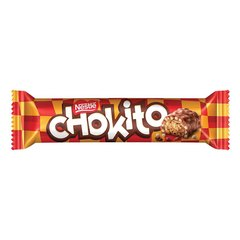
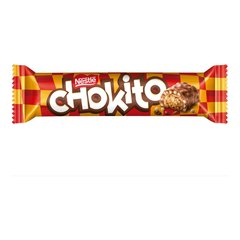
Fotos enviadas pelo Kaio para Tortuguita, Chokito e Jujuba
Claude-Session: https://claude.ai/code/session_01H4JRGunNrdsjAYnKD3Ft2k

Changed region(s): [[0.0292, 0.2625, 0.9625, 0.6417]]

diff --git a/lib/fotosPadrao.ts b/lib/fotosPadrao.ts
@@ -19,10 +19,12 @@ const APELIDOS: Record<string, string> = {
   "m-m-s": "m-m", "m-ms": "m-m", "mms": "m-m", "kit-kat": "kitkat",
   "uva-passa": "uva-passas", "uvas-passas": "uva-passas", "castanhas": "mix-de-castanhas", "morangos": "morango", "uvas": "uva", "uva-verde": "uva", "pessegos": "pessego", "creme-pistachio": "creme-de-pistache", "pistache": "creme-de-pistache", "calda-abacaxi": "calda-de-abacaxi", "geleia-banana": "geleia-de-banana",
 };
+/** Fotos de adicionais trocadas depois de publicadas. */
+const VERSAO_ADICIONAL: Record<string, number> = { tortuguita: 2, chokito: 2, jujuba: 2 };
 function fotoAdicional(nome: string) {
   const n = normal(nome);
   const k = APELIDOS[n] ?? (ADICIONAIS.has(n) ? n : ADICIONAIS.has(n.replace(/s$/, "")) ? n.replace(/s$/, "") : null);
-  return k && ADICIONAIS.has(k) ? `/fotos/adicionais/${k}.jpg` : undefined;
+  return k && ADICIONAIS.has(k) ? `/fotos/adicionais/${k}.jpg${VERSAO_ADICIONAL[k] ? `?v=${VERSAO_ADICIONAL[k]}` : ""}` : undefined;
 }
 
 /** Fotos trocadas depois de publicadas: o "?v=" faz o navegador baixar de novo. */
